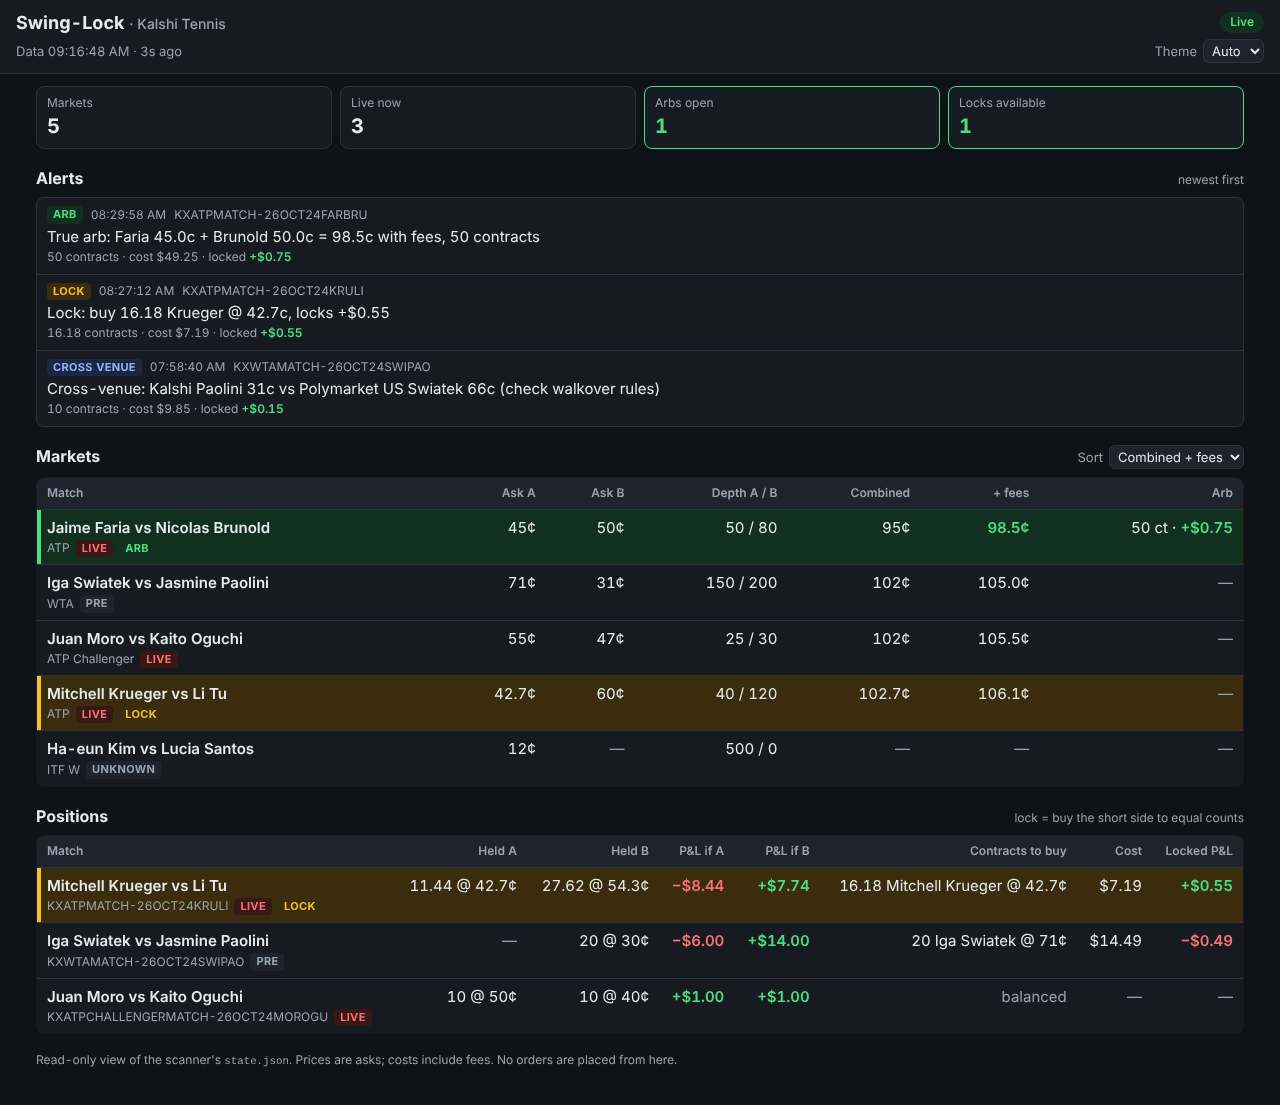
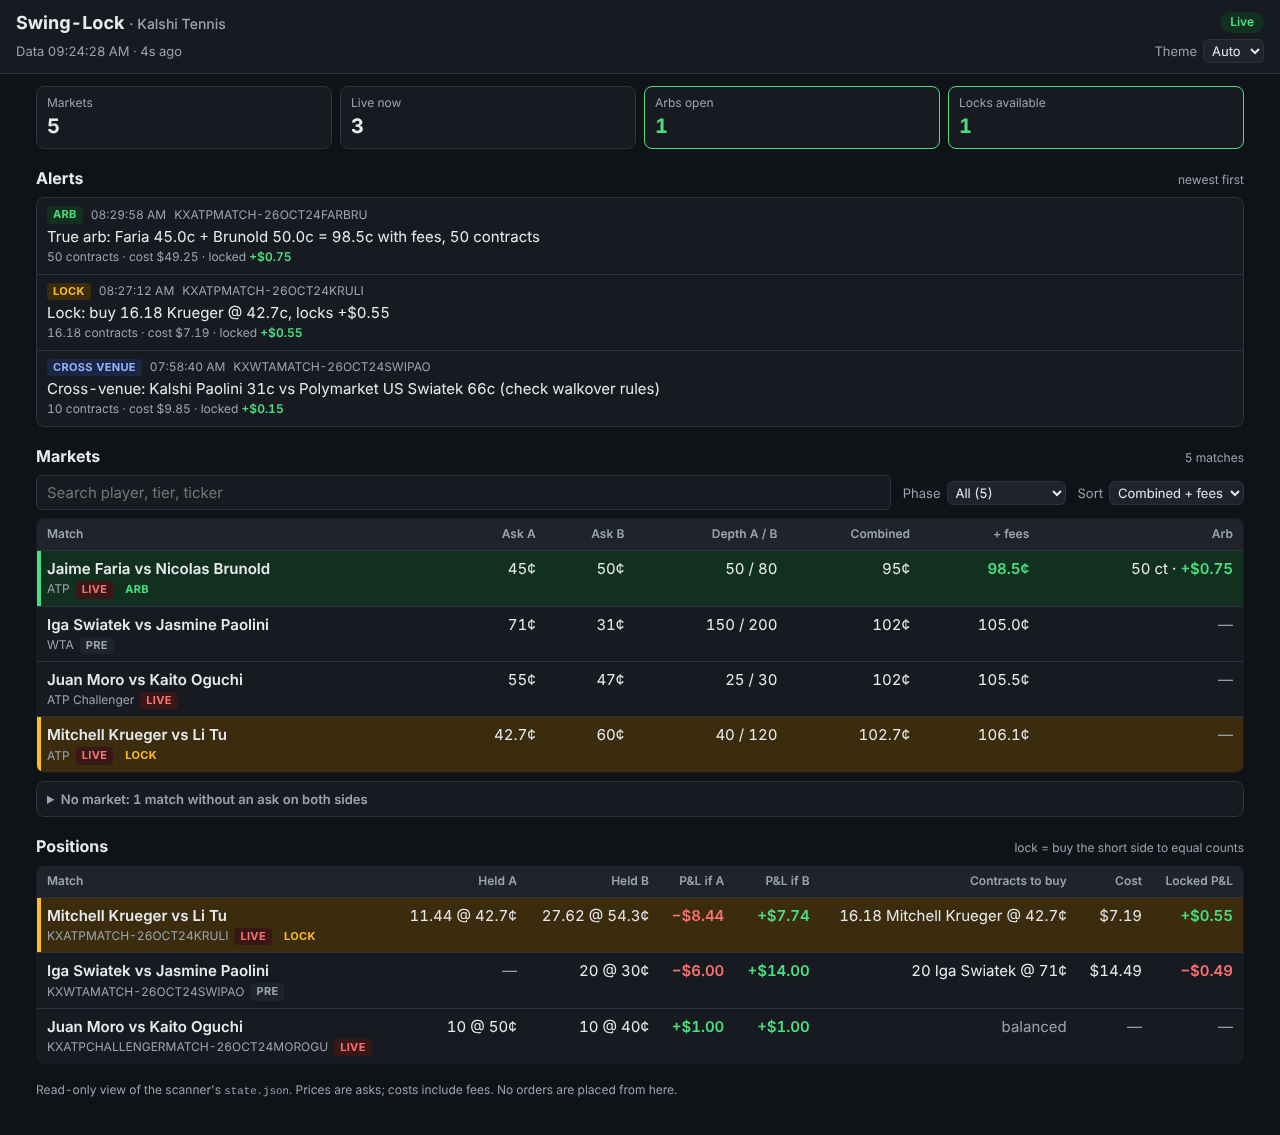
Dashboard: search box, phase filter, collapsed no-market group
- markets list: search (players, tier, series, ticker; all words must match),
  phase filter with counts (remembered per device), 'N of M matches' count
- matches without an ask on both sides go to a collapsed 'No market' group
- positions and alerts stay unfiltered so a lock is never hidden
- browser check exercises the filters; new 100-match test (59 passing)

Claude-Session: https://claude.ai/code/session_01W1DSUJuc7wQcHRTpWk2cX2

diff --git a/swinglock/dashboard/static/app.js b/swinglock/dashboard/static/app.js
@@ -148,14 +148,48 @@ function matchCell(m) {
 // Cell content sits in one span so the phone card layout keeps label and value as two flex items.
 const td = (label, ...kids) => el("td", { class: "num", "data-label": label }, el("span", {}, ...kids));
 
+const hasBothAsks = (m) => isNum(m.ask_a) && isNum(m.ask_b);
+
+function matchesFilter(m, q, phase) {
+  if (phase !== "all" && (m.phase || "unknown") !== phase) return false;
+  if (!q) return true;
+  const hay = [m.player_a, m.player_b, m.tier, m.series, m.match_id].join(" ").toLowerCase();
+  return q.split(/\s+/).every((w) => hay.includes(w));
+}
+
+// Phase options carry live counts; any phase value outside the contract still gets an option.
+function syncPhaseOptions(all) {
+  const sel = $("phase");
+  const counts = { all: all.length };
+  for (const m of all) { const p = m.phase || "unknown"; counts[p] = (counts[p] || 0) + 1; }
+  for (const p of Object.keys(counts)) {
+    if (![...sel.options].some((o) => o.value === p)) sel.append(el("option", { value: p }, p));
+  }
+  for (const o of sel.options) {
+    o.textContent = `${o.dataset.label || (o.dataset.label = o.textContent)} (${counts[o.value] || 0})`;
+  }
+}
+
 function renderMarkets(s) {
   const body = $("markets");
   const locks = profitableLocks(s);
-  const rows = [...(s.matches || [])].sort(SORTS[$("sort").value] || SORTS.cwf);
+  const all = s.matches || [];
+  syncPhaseOptions(all);
+  const q = $("q").value.trim().toLowerCase();
+  const shown = all.filter((m) => matchesFilter(m, q, $("phase").value));
+  const rows = shown.filter(hasBothAsks).sort(SORTS[$("sort").value] || SORTS.cwf);
+  const noMarket = shown.filter((m) => !hasBothAsks(m))
+    .sort((a, b) => `${a.player_a} ${a.player_b}`.localeCompare(`${b.player_a} ${b.player_b}`));
+
+  $("m-count").textContent = shown.length === all.length
+    ? `${all.length} matches`
+    : `${shown.length} of ${all.length} matches`;
+
   body.replaceChildren();
   if (!rows.length) {
-    body.append(el("tr", {}, el("td", { colspan: 7, class: "empty" }, "No markets in state.json.")));
-    return;
+    const msg = !all.length ? "No markets in state.json."
+      : shown.length ? "No match has asks on both sides." : "No markets match the filter.";
+    body.append(el("tr", {}, el("td", { colspan: 7, class: "empty" }, msg)));
   }
   for (const m of rows) {
     const arb = isArb(m), lock = locks.has(m.match_id);
@@ -170,6 +204,17 @@ function renderMarkets(s) {
       td("Combined + fees", isNum(cwf) ? el("span", { class: cwf < 1 ? "pos" : "" }, cents(cwf)) : cents(cwf)),
       td("Arb", arb ? [qty(m.arb_contracts) + " ct · ", money(m.arb_profit)] : el("span", { class: "na" }, "—"))));
   }
+
+  // Matches missing an ask on a side (often ended, suspended or not yet listed): one collapsed group.
+  $("nomarket").hidden = !noMarket.length;
+  $("nomarket-sum").textContent = `No market: ${noMarket.length} match${noMarket.length === 1 ? "" : "es"} without an ask on both sides`;
+  $("nomarket-list").replaceChildren(...noMarket.map((m) => {
+    const missing = !isNum(m.ask_a) && !isNum(m.ask_b) ? "no asks"
+      : `no ask on ${(!isNum(m.ask_a) ? m.player_a : m.player_b) || "one side"}`;
+    return el("li", {},
+      el("span", { class: "players" }, `${m.player_a || "?"} vs ${m.player_b || "?"}`),
+      el("span", { class: "why" }, `${m.tier || m.series || ""} · ${m.phase || "unknown"} · ${missing}`));
+  }));
 }
 
 function held(c, avg) {
@@ -294,6 +339,15 @@ function applyTheme(v) {
 })();
 
 $("sort").addEventListener("change", render);
+$("phase").addEventListener("change", () => {
+  render();
+  try { localStorage.setItem("swinglock-phase", $("phase").value); } catch (_) { /* ignore */ }
+});
+$("q").addEventListener("input", render);
+try {
+  const p = localStorage.getItem("swinglock-phase");
+  if (p && [...$("phase").options].some((o) => o.value === p)) $("phase").value = p;
+} catch (_) { /* storage blocked */ }
 setInterval(renderStatus, 1000);   // keep the age and stale warning ticking between polls
 document.addEventListener("visibilitychange", () => { if (!document.hidden) poll(); });
 poll();

diff --git a/swinglock/dashboard/check_page.js b/swinglock/dashboard/check_page.js
@@ -1,5 +1,5 @@
 // Browser check + screenshots for the dashboard (Playwright, Node).
-//   node swinglock/dashboard/check_page.js <base_url> [out_dir]
+//   node swinglock/dashboard/check_page.js <base_url> [out_dir] [search_term]
 // Loads the page at phone (390x844) and laptop (1280x800) sizes in light and dark mode,
 // fails on any page error / console error or horizontal overflow, and saves screenshots.
 "use strict";
@@ -9,6 +9,7 @@ const path = require("path");
 
 const base = process.argv[2];
 const outDir = process.argv[3] || "";
+const search = process.argv[4] || "";   // optional search term to exercise the filter
 const VIEWPORTS = { phone: { width: 390, height: 844 }, laptop: { width: 1280, height: 800 } };
 
 (async () => {
@@ -29,7 +30,8 @@ const VIEWPORTS = { phone: { width: 390, height: 844 }, laptop: { width: 1280, h
         overflow: document.documentElement.scrollWidth - window.innerWidth,
         status: document.body.dataset.status,
         banner: document.getElementById("banner").hidden ? "" : document.getElementById("banner").textContent,
-        markets: document.querySelectorAll("#markets tr").length,
+        markets: document.querySelectorAll("#markets tr:not(:has(td.empty))").length,
+        noMarket: document.getElementById("nomarket").hidden ? 0 : document.querySelectorAll("#nomarket-list li").length,
         firstMarket: document.querySelector("#markets tr .players")?.textContent || "",
         arbRows: document.querySelectorAll("#markets tr.hot-arb").length,
         lockRows: document.querySelectorAll("#positions tr.hot-lock").length,
@@ -37,11 +39,27 @@ const VIEWPORTS = { phone: { width: 390, height: 844 }, laptop: { width: 1280, h
         bg: getComputedStyle(document.body).backgroundColor,
       }));
       if (info.overflow > 0) problems.push(`${tag} horizontal overflow ${info.overflow}px`);
-      results.push({ tag, ...info });
       if (outDir) {
         fs.mkdirSync(outDir, { recursive: true });
         await page.screenshot({ path: path.join(outDir, `dashboard-${tag}.png`), fullPage: true });
       }
+      // Filters: row counts after a search, after a phase filter, and with both cleared.
+      const count = () => page.evaluate(() => ({
+        rows: document.querySelectorAll("#markets tr:not(:has(td.empty))").length,
+        noMarket: document.getElementById("nomarket").hidden ? 0 : document.querySelectorAll("#nomarket-list li").length,
+        label: document.getElementById("m-count").textContent,
+      }));
+      info.filters = {};
+      if (search) {
+        await page.fill("#q", search);
+        info.filters.search = await count();
+        await page.fill("#q", "");
+      }
+      await page.selectOption("#phase", "pre");
+      info.filters.pre = await count();
+      await page.selectOption("#phase", "all");
+      info.filters.all = await count();
+      results.push({ tag, ...info });
       await ctx.close();
     }
   }

diff --git a/swinglock/dashboard/static/style.css b/swinglock/dashboard/static/style.css
@@ -81,7 +81,7 @@ select {
   font: inherit; font-size: 13px; color: var(--text);
   background: var(--surface-2); border: 1px solid var(--line); border-radius: 6px; padding: 2px 4px;
 }
-.theme, .sort { display: inline-flex; gap: 6px; align-items: center; font-size: 13px; color: var(--muted); }
+.theme, .filters label { display: inline-flex; gap: 6px; align-items: center; font-size: 13px; color: var(--muted); }
 
 .pill {
   font-size: 12px; font-weight: 600; padding: 2px 10px; border-radius: 999px;
@@ -142,6 +142,19 @@ table.grid { width: 100%; border-collapse: collapse; background: var(--surface);
 .na { color: var(--muted); }
 .flag { font-size: 11px; color: var(--bad); font-weight: 700; }
 
+.filters { display: flex; gap: 8px 12px; align-items: center; flex-wrap: wrap; margin: 0 0 8px; }
+.filters input[type="search"] {
+  flex: 1 1 220px; min-width: 0; font: inherit; color: var(--text);
+  background: var(--surface); border: 1px solid var(--line); border-radius: 6px; padding: 6px 10px;
+}
+.nomarket { margin-top: 8px; background: var(--surface); border: 1px solid var(--line); border-radius: 8px; }
+.nomarket summary { padding: 8px 10px; cursor: pointer; color: var(--muted); font-size: 13px; font-weight: 600; }
+.nomarket ul { list-style: none; margin: 0; padding: 0; max-height: 50vh; overflow-y: auto; border-top: 1px solid var(--line); }
+.nomarket li { padding: 6px 10px; border-bottom: 1px solid var(--line); display: flex; justify-content: space-between; gap: 8px; flex-wrap: wrap; font-size: 13px; }
+.nomarket li:last-child { border-bottom: 0; }
+.nomarket .players { font-weight: 600; overflow-wrap: anywhere; }
+.nomarket .why { color: var(--muted); }
+
 .foot { color: var(--muted); font-size: 12px; }
 
 /* Phone: tables become stacked cards; each cell shows its column name. */
@@ -159,6 +172,7 @@ table.grid { width: 100%; border-collapse: collapse; background: var(--surface);
   .grid .num { text-align: right; white-space: normal; }
   .grid td.num > span { min-width: 0; }
   .alerts { max-height: 50vh; }
+  .filters input[type="search"] { flex-basis: 100%; font-size: 16px; } /* 16px stops iOS zoom-on-focus */
   .grid tr.hot-arb, .grid tr.hot-lock { border-width: 2px; }
   .grid tr.hot-arb { border-color: var(--good); }
   .grid tr.hot-lock { border-color: var(--warn); }

diff --git a/swinglock/dashboard/static/index.html b/swinglock/dashboard/static/index.html
@@ -38,7 +38,19 @@
   <section aria-labelledby="h-markets">
     <div class="sec-head">
       <h2 id="h-markets">Markets</h2>
-      <label class="sort">Sort
+      <span class="hint" id="m-count"></span>
+    </div>
+    <div class="filters">
+      <input type="search" id="q" placeholder="Search player, tier, ticker" aria-label="Search markets" autocomplete="off" spellcheck="false">
+      <label>Phase
+        <select id="phase" aria-label="Filter by phase">
+          <option value="all">All</option>
+          <option value="live">Live</option>
+          <option value="pre">Pre-match</option>
+          <option value="unknown">Unknown</option>
+        </select>
+      </label>
+      <label>Sort
         <select id="sort" aria-label="Sort markets">
           <option value="cwf">Combined + fees</option>
           <option value="combined">Combined</option>
@@ -56,6 +68,10 @@
       </tr></thead>
       <tbody id="markets"></tbody>
     </table>
+    <details class="nomarket" id="nomarket" hidden>
+      <summary id="nomarket-sum">No market</summary>
+      <ul id="nomarket-list"></ul>
+    </details>
   </section>
 
   <section aria-labelledby="h-pos">

diff --git a/tests/test_dashboard.py b/tests/test_dashboard.py
@@ -170,22 +170,62 @@ def _node_playwright() -> bool:
     return subprocess.run(["node", "-e", "require('playwright')"], capture_output=True).returncode == 0
 
 
-@pytest.mark.skipif(not _node_playwright(), reason="needs node + playwright")
-@pytest.mark.parametrize("fresh", [True, False])
-def test_page_in_browser(serve, tmp_path, fresh):
-    """Phone + laptop, light + dark: no page errors, no horizontal overflow, stale banner logic."""
-    s = json.loads(SAMPLE_STATE.read_text())
-    if fresh:
-        s["generated_at"] = datetime.now(UTC).strftime("%Y-%m-%dT%H:%M:%SZ")
-    state = tmp_path / "state.json"
-    state.write_text(json.dumps(s))
+def _run_check(base: str, search: str = "") -> list[dict]:
     script = Path(__file__).parents[1] / "swinglock" / "dashboard" / "check_page.js"
-    r = subprocess.run(["node", str(script), serve(state) + "/"], capture_output=True, text=True, timeout=120)
+    r = subprocess.run(["node", str(script), base + "/", "", search],
+                       capture_output=True, text=True, timeout=180)
     out = json.loads(r.stdout)
     assert r.returncode == 0 and out["problems"] == [], out["problems"] or r.stderr
     assert len(out["results"]) == 4
-    for res in out["results"]:
+    return out["results"]
+
+
+def _now() -> str:
+    return datetime.now(UTC).strftime("%Y-%m-%dT%H:%M:%SZ")
+
+
+@pytest.mark.skipif(not _node_playwright(), reason="needs node + playwright")
+@pytest.mark.parametrize("fresh", [True, False])
+def test_page_in_browser(serve, tmp_path, fresh):
+    """Phone + laptop, light + dark: no page errors, no horizontal overflow, stale banner, filters."""
+    s = json.loads(SAMPLE_STATE.read_text())
+    if fresh:
+        s["generated_at"] = _now()
+    state = tmp_path / "state.json"
+    state.write_text(json.dumps(s))
+    for res in _run_check(serve(state), "swiatek"):
         assert res["status"] == ("ok" if fresh else "stale")
-        assert res["markets"] == 5 and res["alerts"] == 3
+        assert res["markets"] == 4 and res["noMarket"] == 1 and res["alerts"] == 3
         assert res["arbRows"] == 1 and res["lockRows"] == 1
         assert res["firstMarket"] == "Jaime Faria vs Nicolas Brunold"   # sorted by combined + fees
+        f = res["filters"]
+        assert f["search"] == {"rows": 1, "noMarket": 0, "label": "1 of 5 matches"}
+        assert f["pre"] == {"rows": 1, "noMarket": 0, "label": "1 of 5 matches"}
+        assert f["all"] == {"rows": 4, "noMarket": 1, "label": "5 matches"}
+
+
+@pytest.mark.skipif(not _node_playwright(), reason="needs node + playwright")
+def test_page_with_many_matches(serve, tmp_path):
+    """~100 matches (the real scanner lists 95+): still no overflow or errors; filters scale."""
+    s = json.loads(SAMPLE_STATE.read_text())
+    s["generated_at"] = _now()
+    base = s["matches"]
+    s["matches"] = []
+    for i in range(100):
+        m = dict(base[i % len(base)])
+        m["match_id"] = f"{m['match_id']}-{i}"
+        m["player_a"] = f"{m['player_a']} {i}"
+        m["phase"] = ("live", "pre", "unknown")[i % 3]
+        s["matches"].append(m)
+    state = tmp_path / "state.json"
+    state.write_text(json.dumps(s))
+    no_ask = sum(1 for m in s["matches"] if m["ask_b"] is None)
+    pre = [m for m in s["matches"] if m["phase"] == "pre"]
+    for res in _run_check(serve(state), "krueger 4"):   # every search word must match
+        assert res["markets"] == 100 - no_ask and res["noMarket"] == no_ask
+        hay = [" ".join(m[k] for k in ("player_a", "player_b", "tier", "series", "match_id")).lower()
+               for m in s["matches"] if m["ask_b"] is not None]
+        hits = [h for h in hay if "krueger" in h and "4" in h]
+        assert 0 < res["filters"]["search"]["rows"] == len(hits) < 100 - no_ask
+        assert res["filters"]["pre"]["rows"] + res["filters"]["pre"]["noMarket"] == len(pre)
+        assert res["filters"]["all"]["label"] == "100 matches"

diff --git a/docs/ui_dashboard.md b/docs/ui_dashboard.md
@@ -19,7 +19,7 @@ an SSH tunnel (`ssh -L 8000:127.0.0.1:8000 vps`) or a VPN; there is no login on 
 | `swinglock/dashboard/static/` | `index.html`, `app.js`, `style.css` |
 | `swinglock/dashboard/sample_state.json` | Sample matching the CLAUDE.md contract: an open arb (Faria/Brunold), a side with no ask, the Krueger/Li worked example as a position (11.44 @ 42.7¢, 27.62 @ 54.3¢ → buy 16.18 Krueger @ 42.7¢, cost $7.19 with Kalshi fees, locked +$0.55), an unprofitable lock, a balanced holding, one alert of each type. Numbers come from `swinglock.locks` |
 | `swinglock/dashboard/check_page.js` | Playwright (Node) check: phone 390×844 + laptop 1280×800, light + dark; fails on page/console errors, external requests, horizontal overflow; optional screenshots |
-| `tests/test_dashboard.py` | Contract check of the sample, worked-example numbers vs the core math, server routes/errors, self-contained static files, browser check (skipped without node + playwright) |
+| `tests/test_dashboard.py` | Contract check of the sample, worked-example numbers vs the core math, server routes/errors, self-contained static files, browser checks incl. search/phase filters and a 100-match state (skipped without node + playwright) |
 
 ## What the page shows
 - Header: venue, status pill (Live / Stale / Offline), data time and age (ticks every second).
@@ -29,7 +29,12 @@ an SSH tunnel (`ssh -L 8000:127.0.0.1:8000 vps`) or a VPN; there is no login on 
 - Alerts, newest first (by `ts`), coloured by type (arb / lock / cross venue).
 - Markets: players, tier, phase, ask A, ask B, depth A / B, combined, combined + fees, arb
   contracts and profit. Sort by combined + fees (default, cheapest first), combined, arb profit,
-  tier or phase. Row highlighted green when `arb_profit > 0`, amber when a position on that match
+  tier or phase. **Search** (player, tier, series or ticker; every word must match) and a **phase
+  filter** (All / Live / Pre-match / Unknown, with counts; remembered per device) narrow the list,
+  and the header shows "N of M matches". The contract has no "ended" phase: ended or suspended
+  matches lose their asks and drop into the **No market** group, a collapsed list at the bottom
+  of every match without an ask on both sides. Filters apply to markets only; positions and
+  alerts always show in full so a lock is never hidden by a search. Row highlighted green when `arb_profit > 0`, amber when a position on that match
   has a lock with `locked_pnl > 0`.
 - Positions: held A/B (contracts @ avg), P&L if A / if B, contracts to buy (side, ask, "not enough
   depth" flag when `depth_ok` is false), cost, locked P&L. Profitable locks highlighted and listed first.
@@ -40,9 +45,10 @@ an SSH tunnel (`ssh -L 8000:127.0.0.1:8000 vps`) or a VPN; there is no login on 
 ```bash
 python -m pytest -q tests/test_dashboard.py
 python -m swinglock.dashboard --sample --port 8766 &
-node swinglock/dashboard/check_page.js http://127.0.0.1:8766/ /tmp/shots   # screenshots
+node swinglock/dashboard/check_page.js http://127.0.0.1:8766/ /tmp/shots swiatek   # screenshots + filter check
 ```
-Screenshots of the sample (fresh timestamp, plus one stale) are in `docs/ui_screenshots/`.
+Screenshots of the sample (fresh timestamp, plus one stale) and a 100-match phone view filtered to
+Live + "faria" are in `docs/ui_screenshots/`.
 
 ## Notes for Scanner
 - The page treats `arb_profit > 0` as "arb live" and `lock.locked_pnl > 0` as "lock live";
